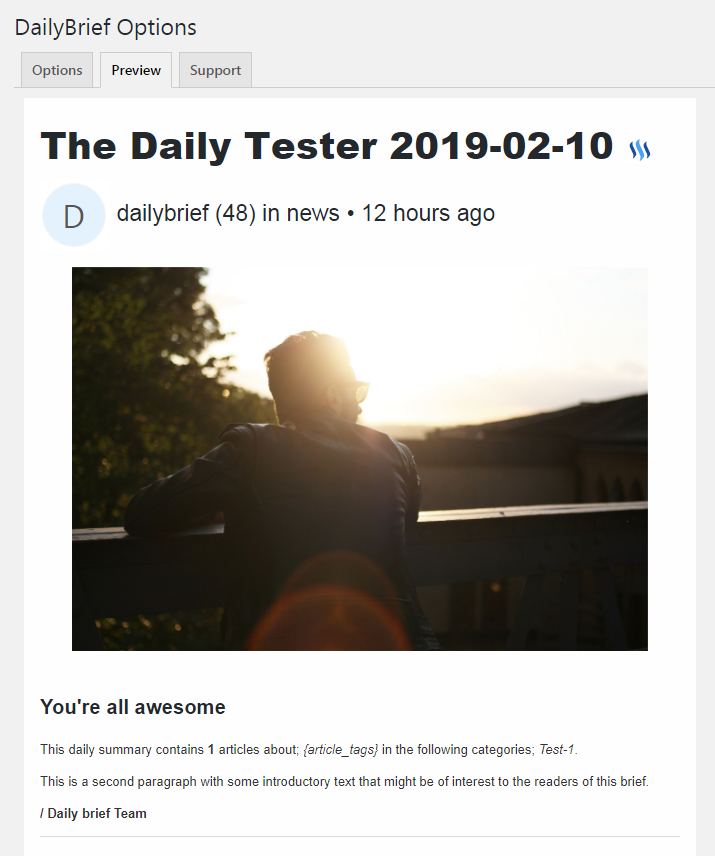
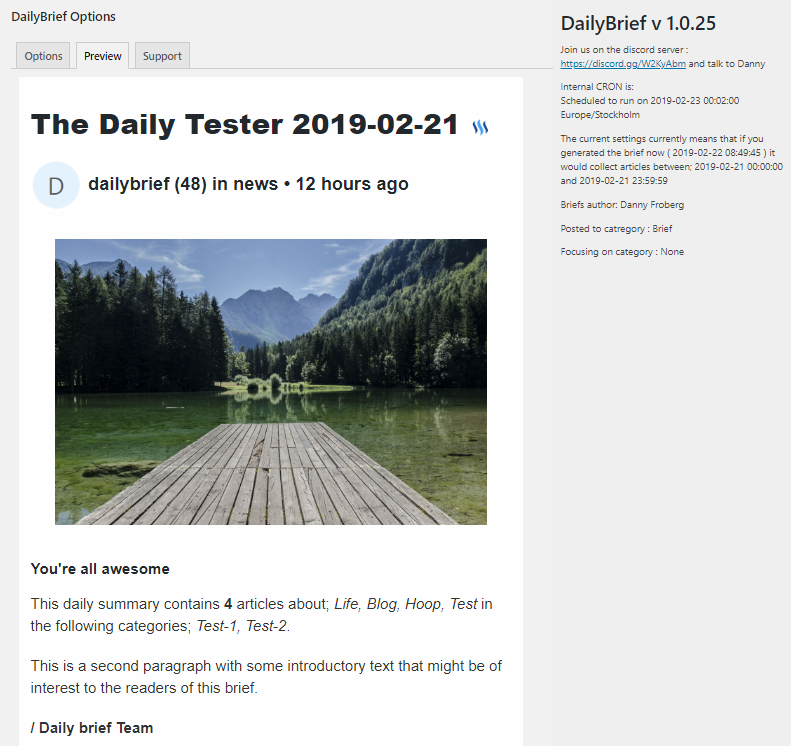
Fix: Update Screenshots and Readme and bump version

diff --git a/dailybrief.php b/dailybrief.php
@@ -15,7 +15,7 @@
  * Plugin Name:       Dailybrief
  * Plugin URI:        https://github.com/dfroberg/dailybrief
  * Description:       WordPress plugin with WP-CLI support to generate a daily brief of a previous day or periods posts.
- * Version:           1.0.24
+ * Version:           1.0.25
  * Author:            Daniel Froberg
  * Author URI:        https://www.froberg.org
  * License:           GPL-2.0+
@@ -35,7 +35,7 @@ if ( ! defined( 'WPINC' ) ) {
  * Start at version 1.0.0 and use SemVer - https://semver.org
  * Rename this for your plugin and update it as you release new versions.
  */
-define( 'DAILYBRIEF_VERSION', '1.0.24' );
+define( 'DAILYBRIEF_VERSION', '1.0.25' );
 
 if ( defined( 'WP_CLI' ) && WP_CLI ) {
 	require_once plugin_dir_path( __FILE__ ) . 'includes/class-dailybrief-cli-command.php';
